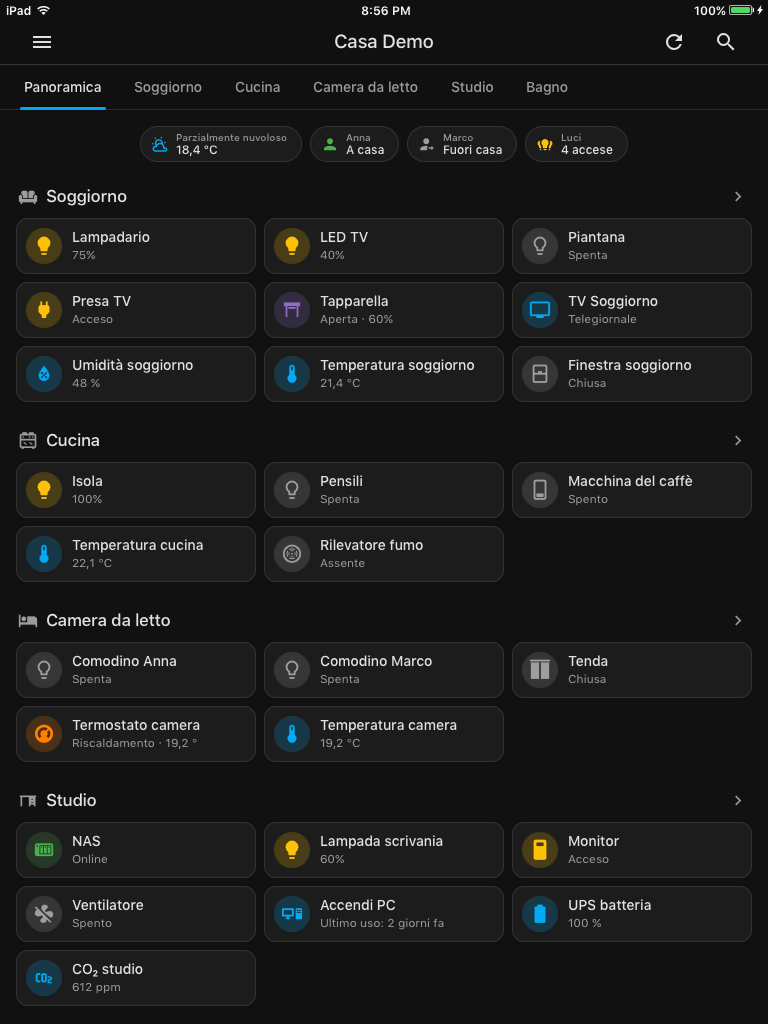
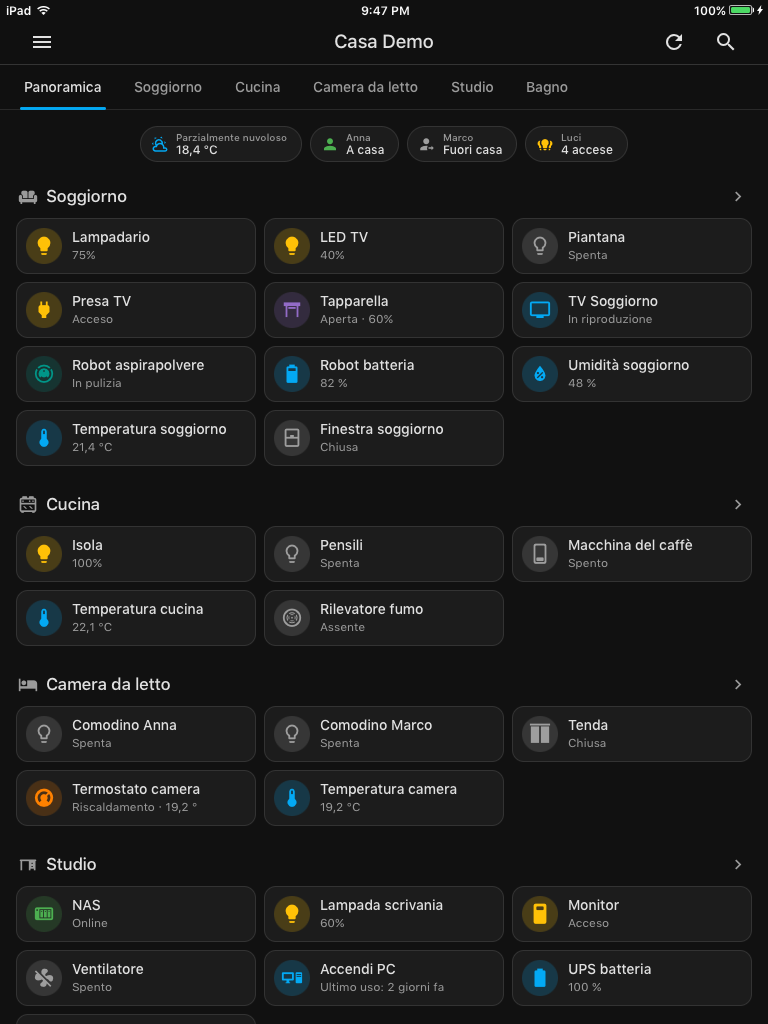
Add NineHA 0.8.1 release artifact, screenshots and HA Dashboard note
- Demo home gains a vacuum and a TV with paired remote.
- New screenshots for vacuum, TV remote, custom dashboard and editor.
- Add NineHA-0.8.1-armv7.ipa (PUBLIC build) and refresh SHA256SUMS.
- Point readers to HA Dashboard as a broadly compatible alternative.

diff --git a/Sources/NineDemoData.m b/Sources/NineDemoData.m
@@ -75,7 +75,20 @@ static NSDictionary *NDEntity(NSString *entityID, NSString *state,
             @"friendly_name": @"Presa TV", @"device_class": @"outlet"}, 9000),
         NDEntity(@"media_player.soggiorno_tv", @"playing", @{
             @"friendly_name": @"TV Soggiorno", @"device_class": @"tv",
-            @"media_title": @"Telegiornale"}, 1200),
+            @"supported_features": @22961, @"adb_response": [NSNull null],
+            @"app_name": @"YouTube", @"source": @"YouTube",
+            @"source_list": @[@"YouTube", @"Netflix", @"Prime Video", @"RaiPlay"]},
+            1200),
+        NDEntity(@"remote.soggiorno_tv", @"on", @{
+            @"friendly_name": @"Telecomando TV"}, 1200),
+        NDEntity(@"vacuum.soggiorno_robot", @"cleaning", @{
+            @"friendly_name": @"Robot aspirapolvere",
+            @"supported_features": @12348, @"fan_speed": @"Standard",
+            @"fan_speed_list": @[@"Silenziosa", @"Standard", @"Turbo"]}, 840),
+        NDEntity(@"sensor.soggiorno_robot_batteria", @"82", @{
+            @"friendly_name": @"Robot batteria",
+            @"device_class": @"battery",
+            @"unit_of_measurement": @"%"}, 840),
         NDEntity(@"cover.soggiorno_tapparella", @"open", @{
             @"friendly_name": @"Tapparella", @"device_class": @"shutter",
             @"current_position": @60, @"supported_features": @15}, 3600),
@@ -167,8 +180,6 @@ static NSDictionary *NDEntity(NSString *entityID, NSString *state,
 
         // Senza stanza
         NDEntity(@"light.giardino", @"off", light(@"Luci giardino", 0), 60000),
-        NDEntity(@"vacuum.robot", @"docked", @{
-            @"friendly_name": @"Robot aspirapolvere"}, 10000),
         NDEntity(@"scene.serata_film", NDAgo(90000), @{
             @"friendly_name": @"Serata film"}, 90000)
     ];
@@ -206,6 +217,10 @@ static NSDictionary *NDEntity(NSString *entityID, NSString *state,
         NSString *entityID = entity[@"entity_id"];
         NSMutableDictionary *info = [NSMutableDictionary dictionary];
         if (areas[entityID]) info[@"area"] = areas[entityID];
+        if ([entityID rangeOfString:@"soggiorno_robot"].location != NSNotFound)
+            info[@"device"] = @"demo-robot";
+        if ([entityID hasSuffix:@"soggiorno_tv"])
+            info[@"device"] = @"demo-tv";
         if ([entityID hasPrefix:@"sensor."] &&
             [entityID rangeOfString:@"temperatura"].location != NSNotFound) {
             info[@"precision"] = @1;
